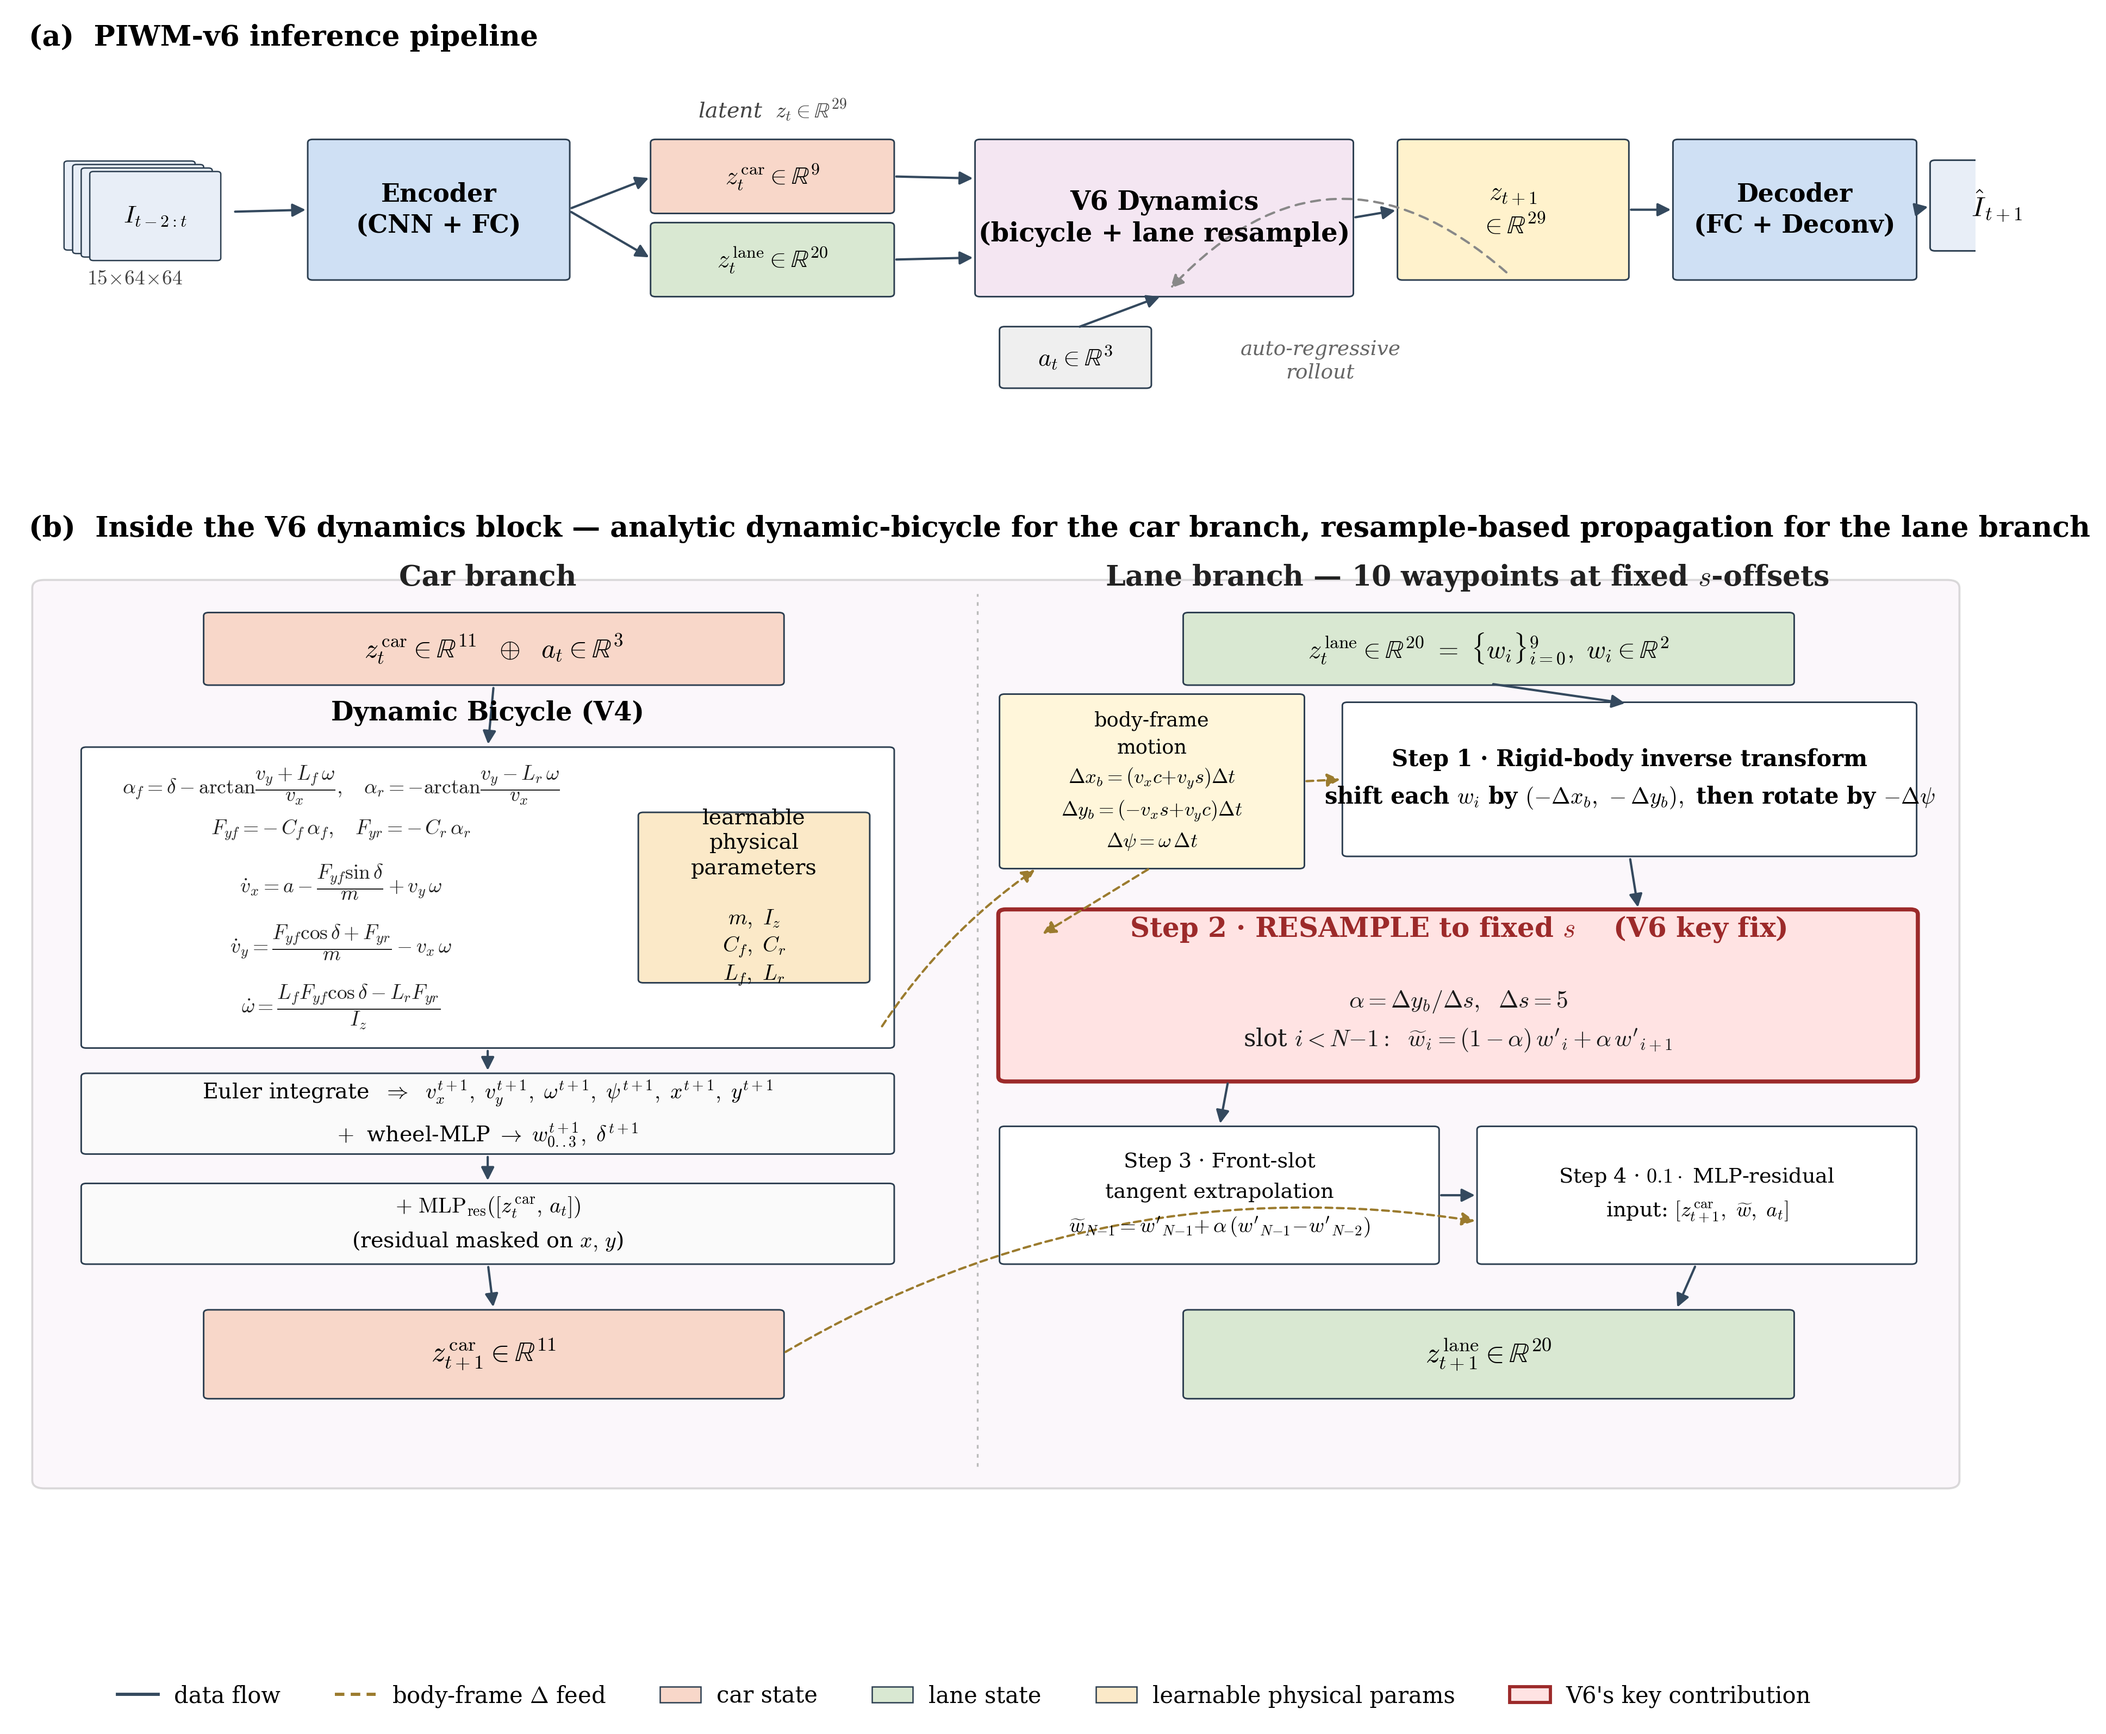
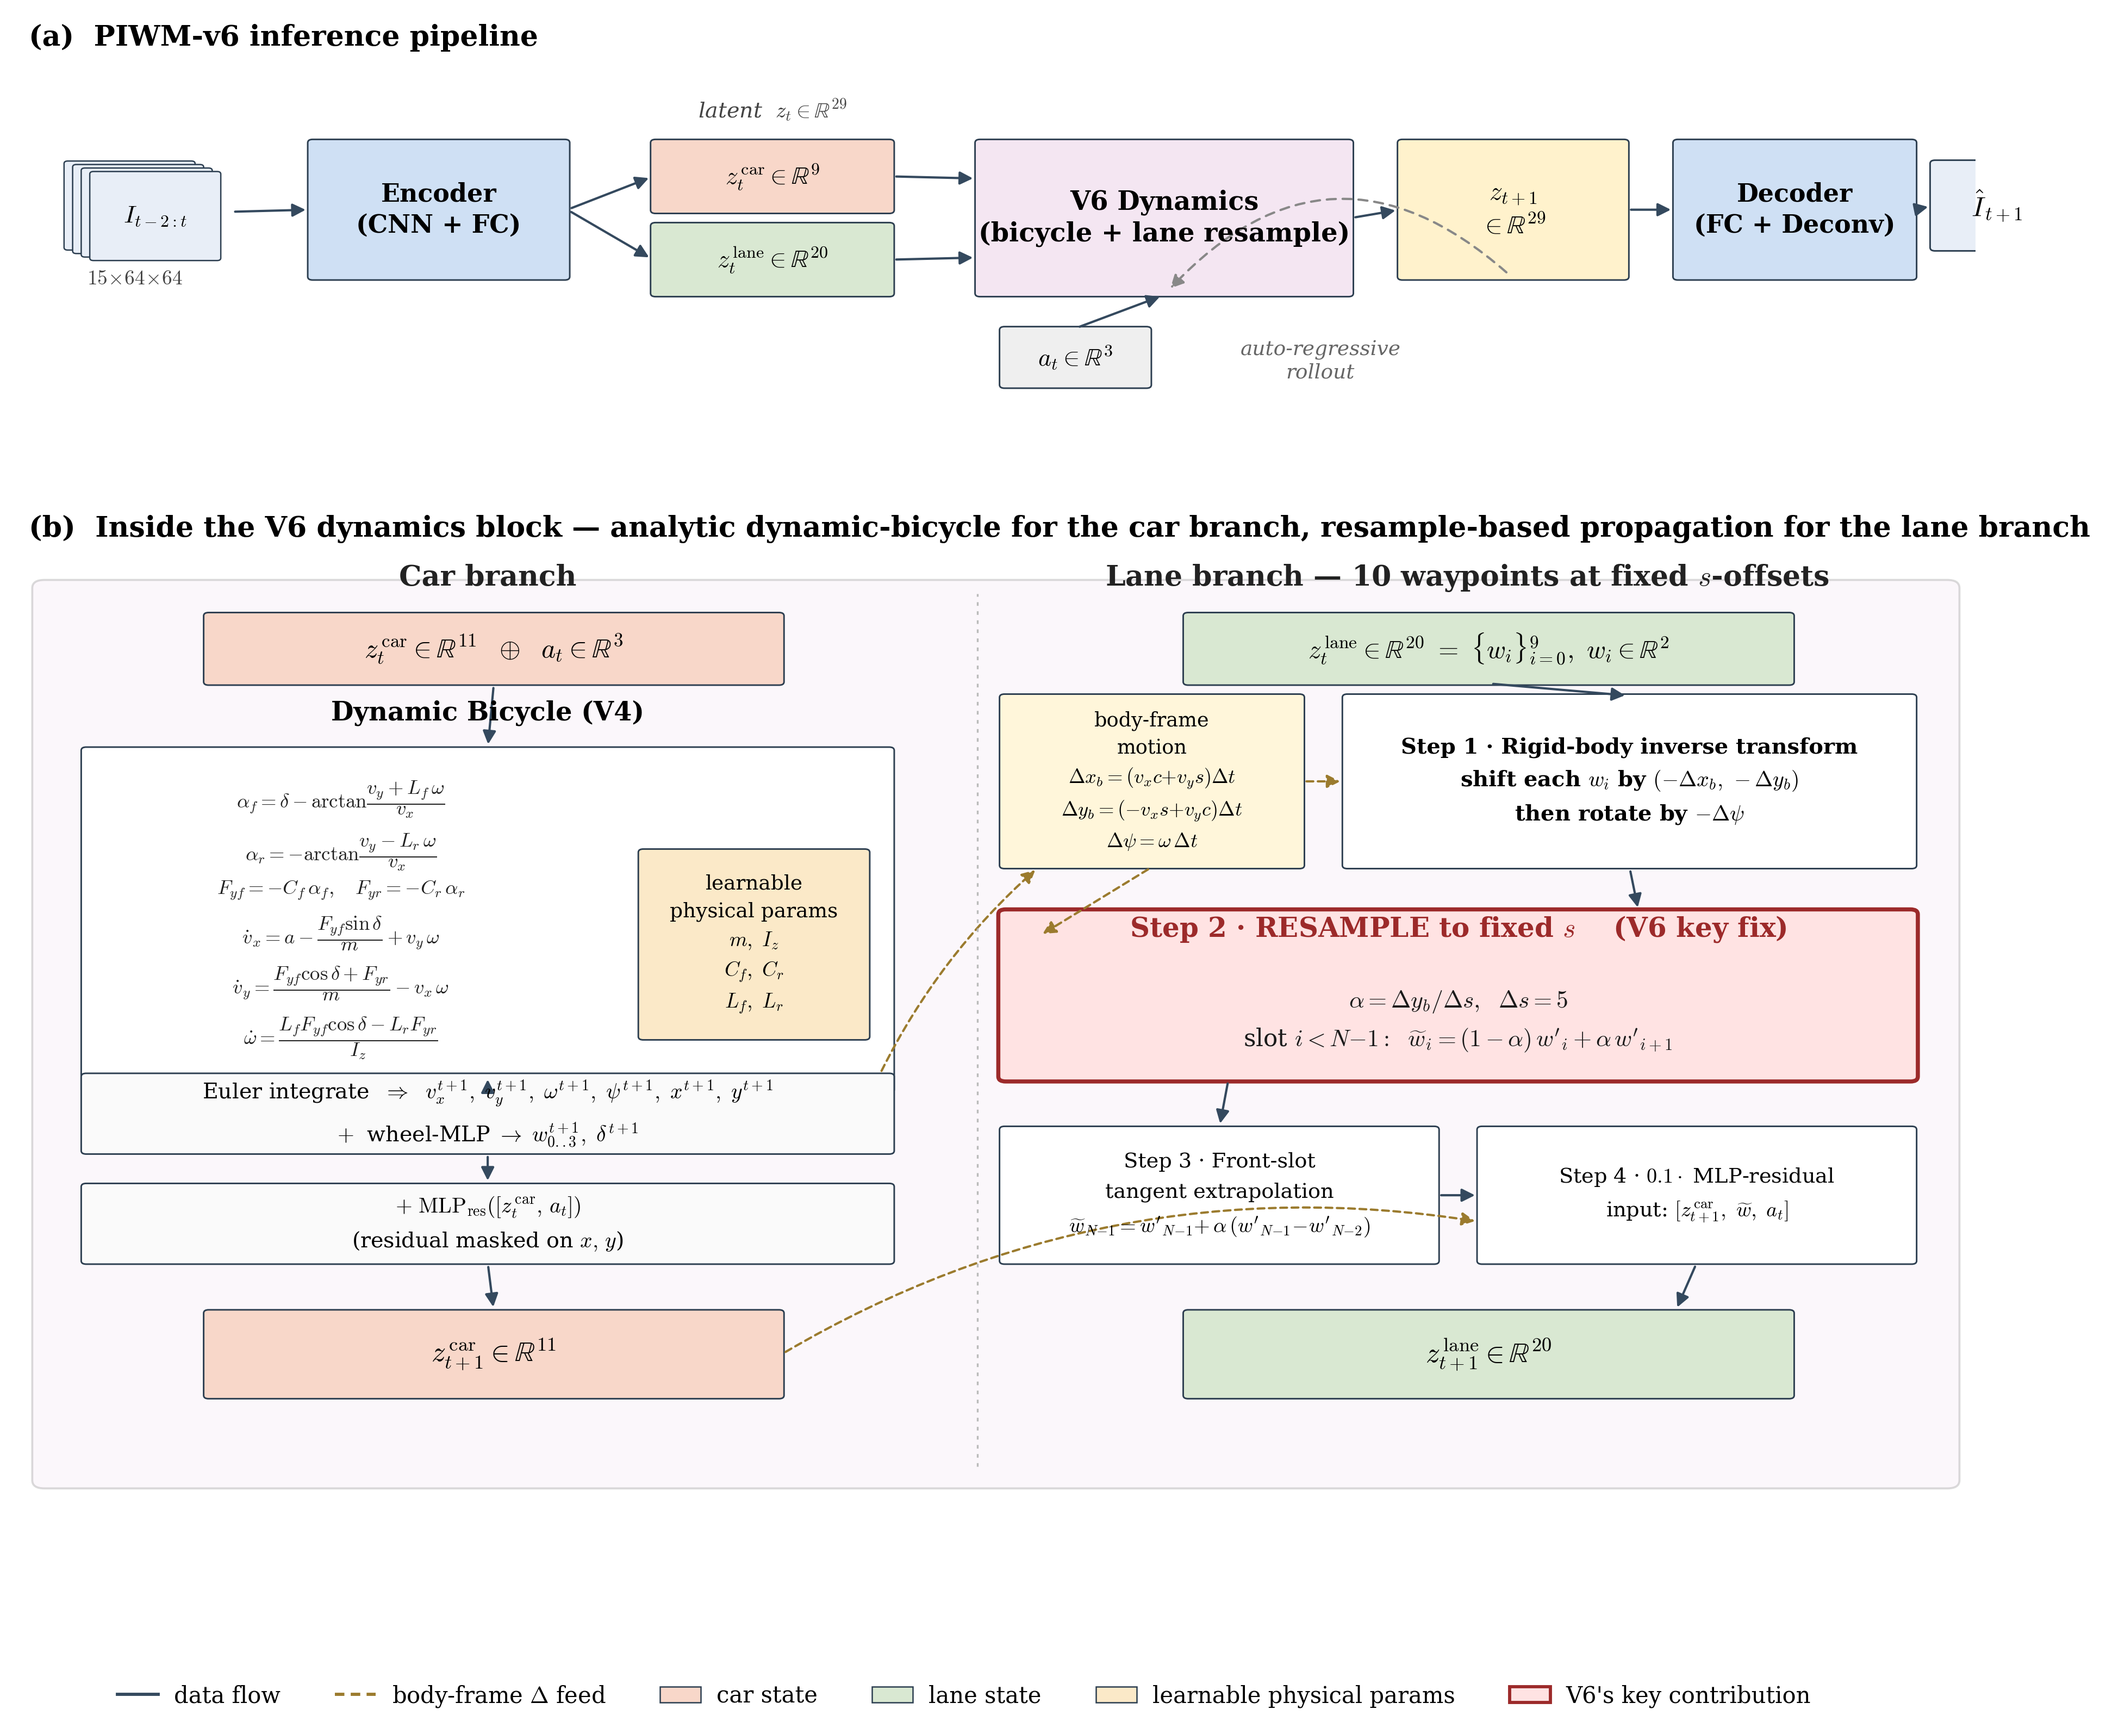
Fix text-overflowing-box issues in v6 architecture figure
Audited the rendered figure by walking every Text/FancyBboxPatch and
comparing tight-bbox extents against the parent box. Three real
overflows fixed:

- Step 1 (rigid-body inverse transform) — long shift+rotate sentence
  was wider than the 4.65-unit box; broken into two lines and slightly
  smaller font (10 -> 9.6), box height bumped 1.85 -> 2.10.
- Learnable physical params — 7-line layout overran the 2.05-unit box
  vertically; collapsed 'learnable / physical / parameters' header to
  two lines and removed the empty separator, height 2.05 -> 2.30,
  font 9.5 -> 9.0.
- Bicycle V4 equation block — alpha_f and alpha_r were on one line
  that touched the right edge; split onto separate lines, box height
  3.65 -> 4.20 (with new origin) so 6 dfrac-bearing lines fit cleanly.

Re-audit reports zero overflows.

diff --git a/reports/draw_architecture_v6.py b/reports/draw_architecture_v6.py
@@ -186,13 +186,14 @@ b_zc_in = rbox(axB, (1.55, 10.30), 4.70, 0.85,
 axB.text(3.85, 9.85, "Dynamic Bicycle (V4)",
          ha="center", fontsize=11.5, fontweight="bold")
 
-b_bv = rbox(axB, (0.55, 5.85), 6.60, 3.65, "", fc="white", fontsize=10)
+b_bv = rbox(axB, (0.55, 5.30), 6.60, 4.20, "", fc="white", fontsize=10)
 
 eq = (
-    r"$\alpha_f = \delta - \arctan\!\dfrac{v_y + L_f\,\omega}{v_x},"
-    r"\ \ \ \alpha_r = -\arctan\!\dfrac{v_y - L_r\,\omega}{v_x}$"
+    r"$\alpha_f = \delta - \arctan\!\dfrac{v_y + L_f\,\omega}{v_x}$"
     "\n"
-    r"$F_{yf} = -\,C_f\,\alpha_f,\ \ \ F_{yr} = -\,C_r\,\alpha_r$"
+    r"$\alpha_r = -\arctan\!\dfrac{v_y - L_r\,\omega}{v_x}$"
+    "\n"
+    r"$F_{yf} = -C_f\,\alpha_f,\quad F_{yr} = -C_r\,\alpha_r$"
     "\n"
     r"$\dot v_x = a - \dfrac{F_{yf}\sin\delta}{m} + v_y\,\omega$"
     "\n"
@@ -201,16 +202,16 @@ eq = (
     r"$\dot \omega = \dfrac{L_f F_{yf}\cos\delta - L_r F_{yr}}{I_z}$"
 )
 axB.text(b_bv[0] + 2.10, b_bv[1] + b_bv[3] / 2, eq,
-         ha="center", va="center", fontsize=9.0, color="#222",
-         linespacing=1.7)
+         ha="center", va="center", fontsize=8.8, color="#222",
+         linespacing=1.45)
 
-# learnable physics params
-b_param = rbox(axB, (b_bv[0] + 4.55, b_bv[1] + 0.80), 1.85, 2.05,
-               "learnable\nphysical\nparameters\n\n"
+# learnable physics params (compact 4 lines so the box height is safely respected)
+b_param = rbox(axB, (b_bv[0] + 4.55, b_bv[1] + 0.65), 1.85, 2.30,
+               "learnable\nphysical params\n"
                r"$m,\ I_z$" + "\n" +
                r"$C_f,\ C_r$" + "\n" +
                r"$L_f,\ L_r$",
-               fc=C_PHYS, fontsize=9.5, lw=0.7)
+               fc=C_PHYS, fontsize=9.0, lw=0.7, linespacing=1.55)
 
 # Euler integrate band
 b_euler = rbox(axB, (0.55, 4.55), 6.60, 0.95,
@@ -262,11 +263,12 @@ b_motion = rbox(axB, (8.05, 8.05), 2.45, 2.10,
                 fc=C_BRIDGE, fontsize=8.8, linespacing=1.5)
 
 # Step 1: Rigid-body inverse transform
-b_rig = rbox(axB, (10.85, 8.20), 4.65, 1.85,
+b_rig = rbox(axB, (10.85, 8.05), 4.65, 2.10,
              "Step 1 · Rigid-body inverse transform\n"
-             r"shift each $w_i$ by $(-\Delta x_b,\,-\Delta y_b),$"
-             r" then rotate by $-\Delta\psi$",
-             fc="white", fontsize=10, weight="bold", linespacing=1.7)
+             r"shift each $w_i$ by $(-\Delta x_b,\,-\Delta y_b)$"
+             "\n"
+             r"then rotate by $-\Delta\psi$",
+             fc="white", fontsize=9.6, weight="bold", linespacing=1.6)
 
 # Step 2: RESAMPLE (highlighted) — full width on right side
 b_res = (8.05, 5.45, 7.45, 2.05)
